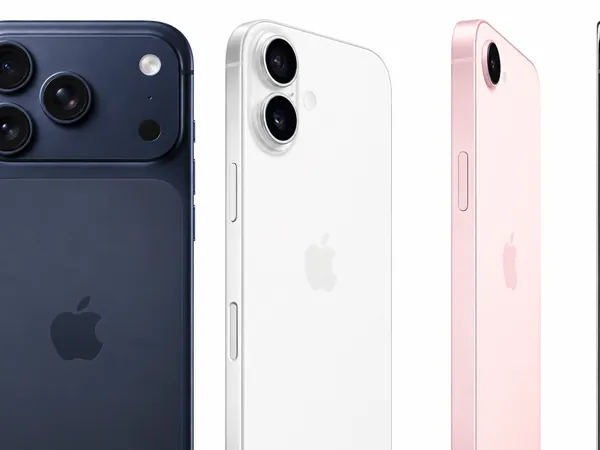
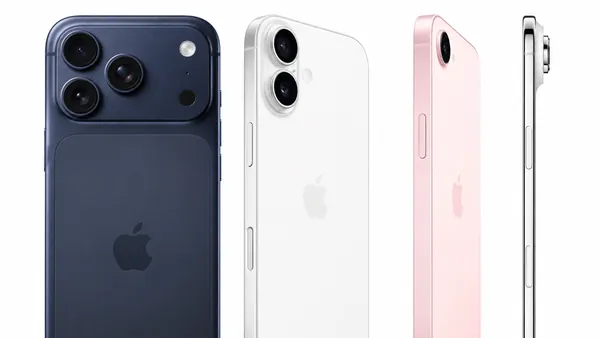
Show the whole product in the three hero cards
Z reported the telefonia and electrodomesticos photos looked badly
fitted. Measured against the sources, he was right and the numbers are
exact: the hero art box is 4:3 and

  telefonia.png         1672x941  16:9  -> 209px cut off EACH side, 25%
  electrodomesticos.png 1254x1254 1:1   -> 157px cut off top AND bottom, 25%
  televisores.png       1448x1086 4:3   -> nothing cut

which is precisely why only the television card looked right.

Both fixes were built and captured before choosing. Chosen: object-fit
contain over the existing 4:3 box, with the art field set to #FEFEFE,
sampled from the photographs' own background rather than assumed. The
delivered edge colour matches that field with a max channel delta of
0/255, so the letterboxing is invisible and the product reads as
floating on the card.

Rejected: per-card aspect-ratio matching each image. It shows the
products larger on desktop, but on mobile the two-column grid stretches
the short 16:9 telefonia card to the row height and leaves a hollow
white area under its label. Uniform art boxes also keep the stacking fix
from the previous block working unchanged.

Sources re-exported uncropped (600x338 and 600x600) and the intrinsic
width/height attributes corrected. Measured clipping is now 0px on every
side of all three cards, on iPhone 14 Pro and at 1440.

Mobile balance is unchanged: both top cards still share an identical 4:3
art box so the row aligns, and the third still centres across the two
[…]

diff --git a/styles.css b/styles.css
@@ -189,11 +189,16 @@ img, svg { display: block; }
   border-radius: var(--radius); box-shadow: var(--shadow-lg);
   padding: 14px; display: flex; flex-direction: column; gap: 10px;
 }
+/* The three hero photographs have different native ratios (16:9, 1:1 and
+   4:3), so `cover` was throwing away a quarter of two of them. `contain`
+   shows the whole product, and the art field is set to #FEFEFE — sampled
+   from the photographs' own background — so the letterboxing is invisible
+   and the product reads as floating on the card. */
 .pcard__art {
-  background: var(--surface); border-radius: var(--radius-sm);
+  background: #FEFEFE; border-radius: var(--radius-sm);
   overflow: hidden; aspect-ratio: 4 / 3;
 }
-.pcard__art img { width: 100%; height: 100%; object-fit: cover; }
+.pcard__art img { width: 100%; height: 100%; object-fit: contain; }
 .pcard__foot { display: flex; align-items: center; gap: 8px; }
 .pcard__label { font-size: .75rem; font-weight: 600; color: var(--muted); letter-spacing: .01em; }
 

diff --git a/index.html b/index.html
@@ -99,7 +99,7 @@
           <div class="pcard__art">
             <picture>
               <source type="image/webp" srcset="assets/img/hero-telefonia-600.webp">
-              <img src="assets/img/hero-telefonia.jpg" width="600" height="450"
+              <img src="assets/img/hero-telefonia.jpg" width="600" height="338"
                    decoding="async" alt="Teléfonos móviles nuevos, vistos por delante y por detrás.">
             </picture>
           </div>
@@ -125,7 +125,7 @@
           <div class="pcard__art">
             <picture>
               <source type="image/webp" srcset="assets/img/hero-electro-600.webp">
-              <img src="assets/img/hero-electro.jpg" width="600" height="450"
+              <img src="assets/img/hero-electro.jpg" width="600" height="600"
                    decoding="async" alt="Robot aspirador con su base y sus accesorios.">
             </picture>
           </div>
